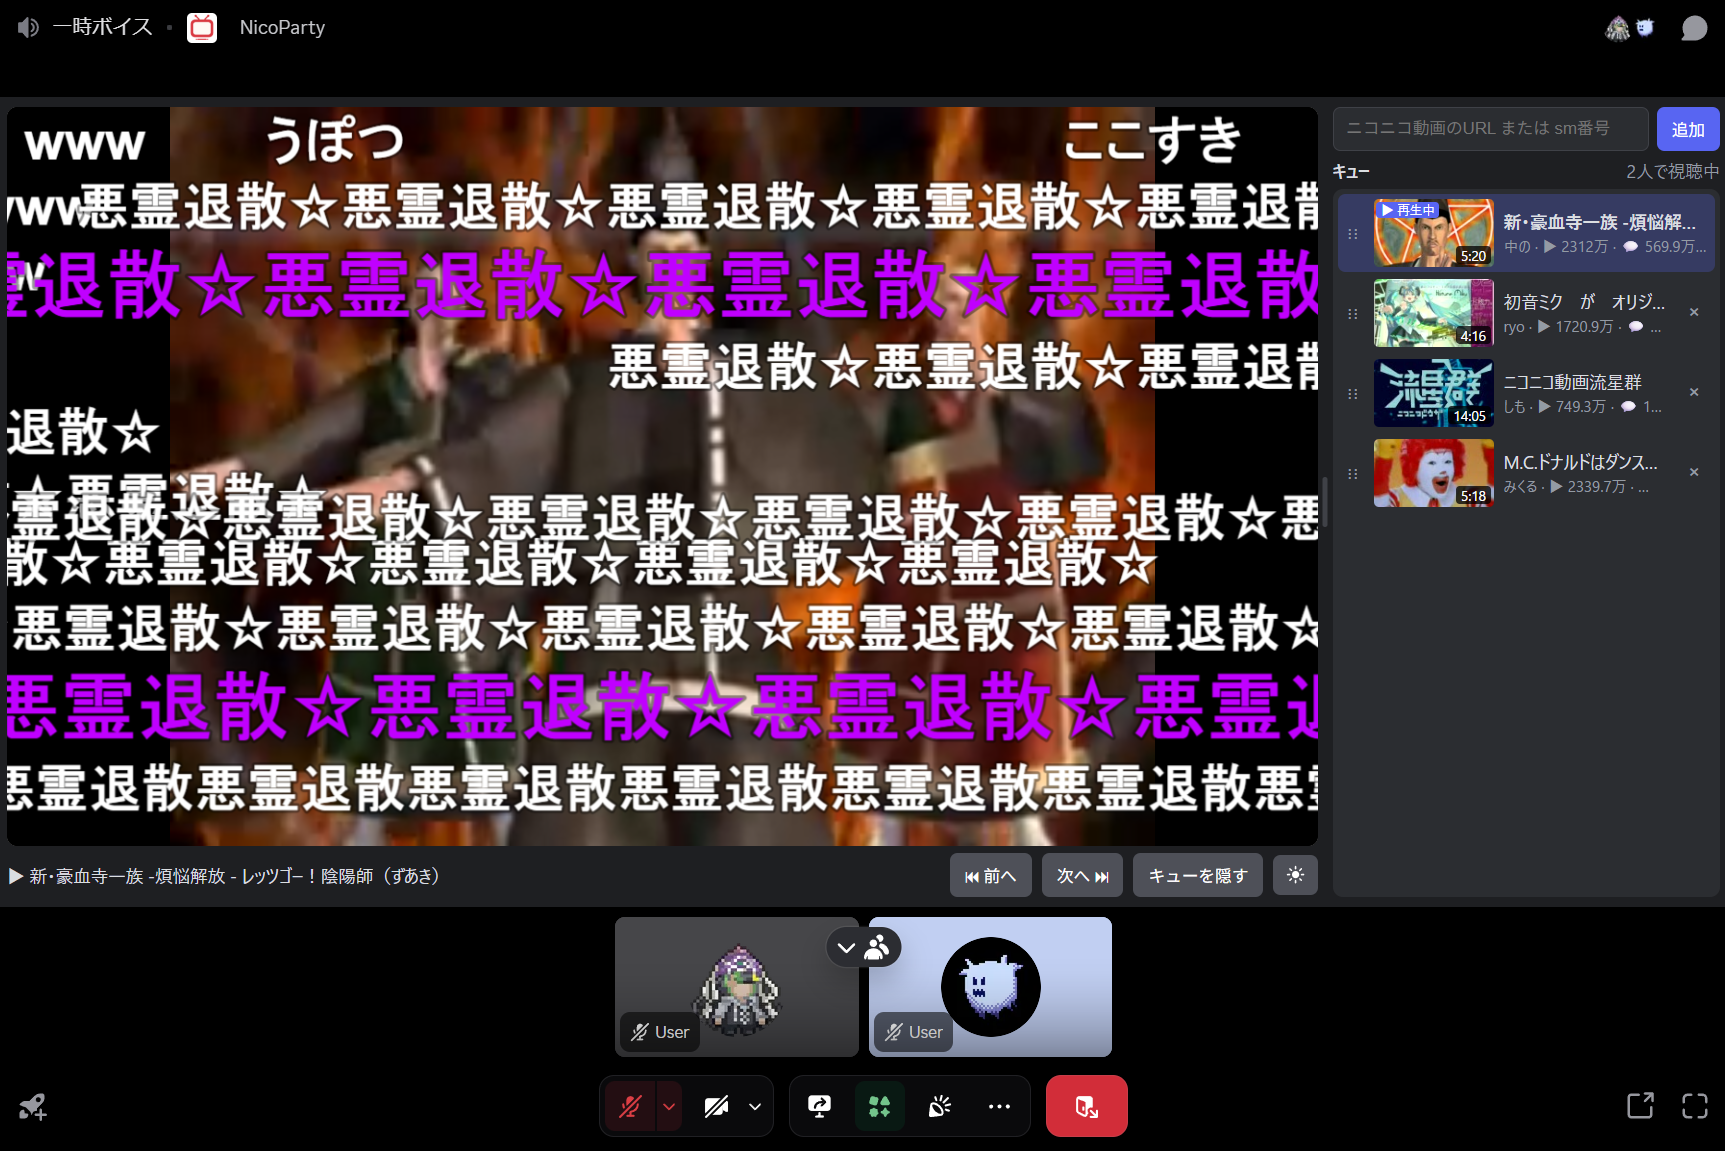
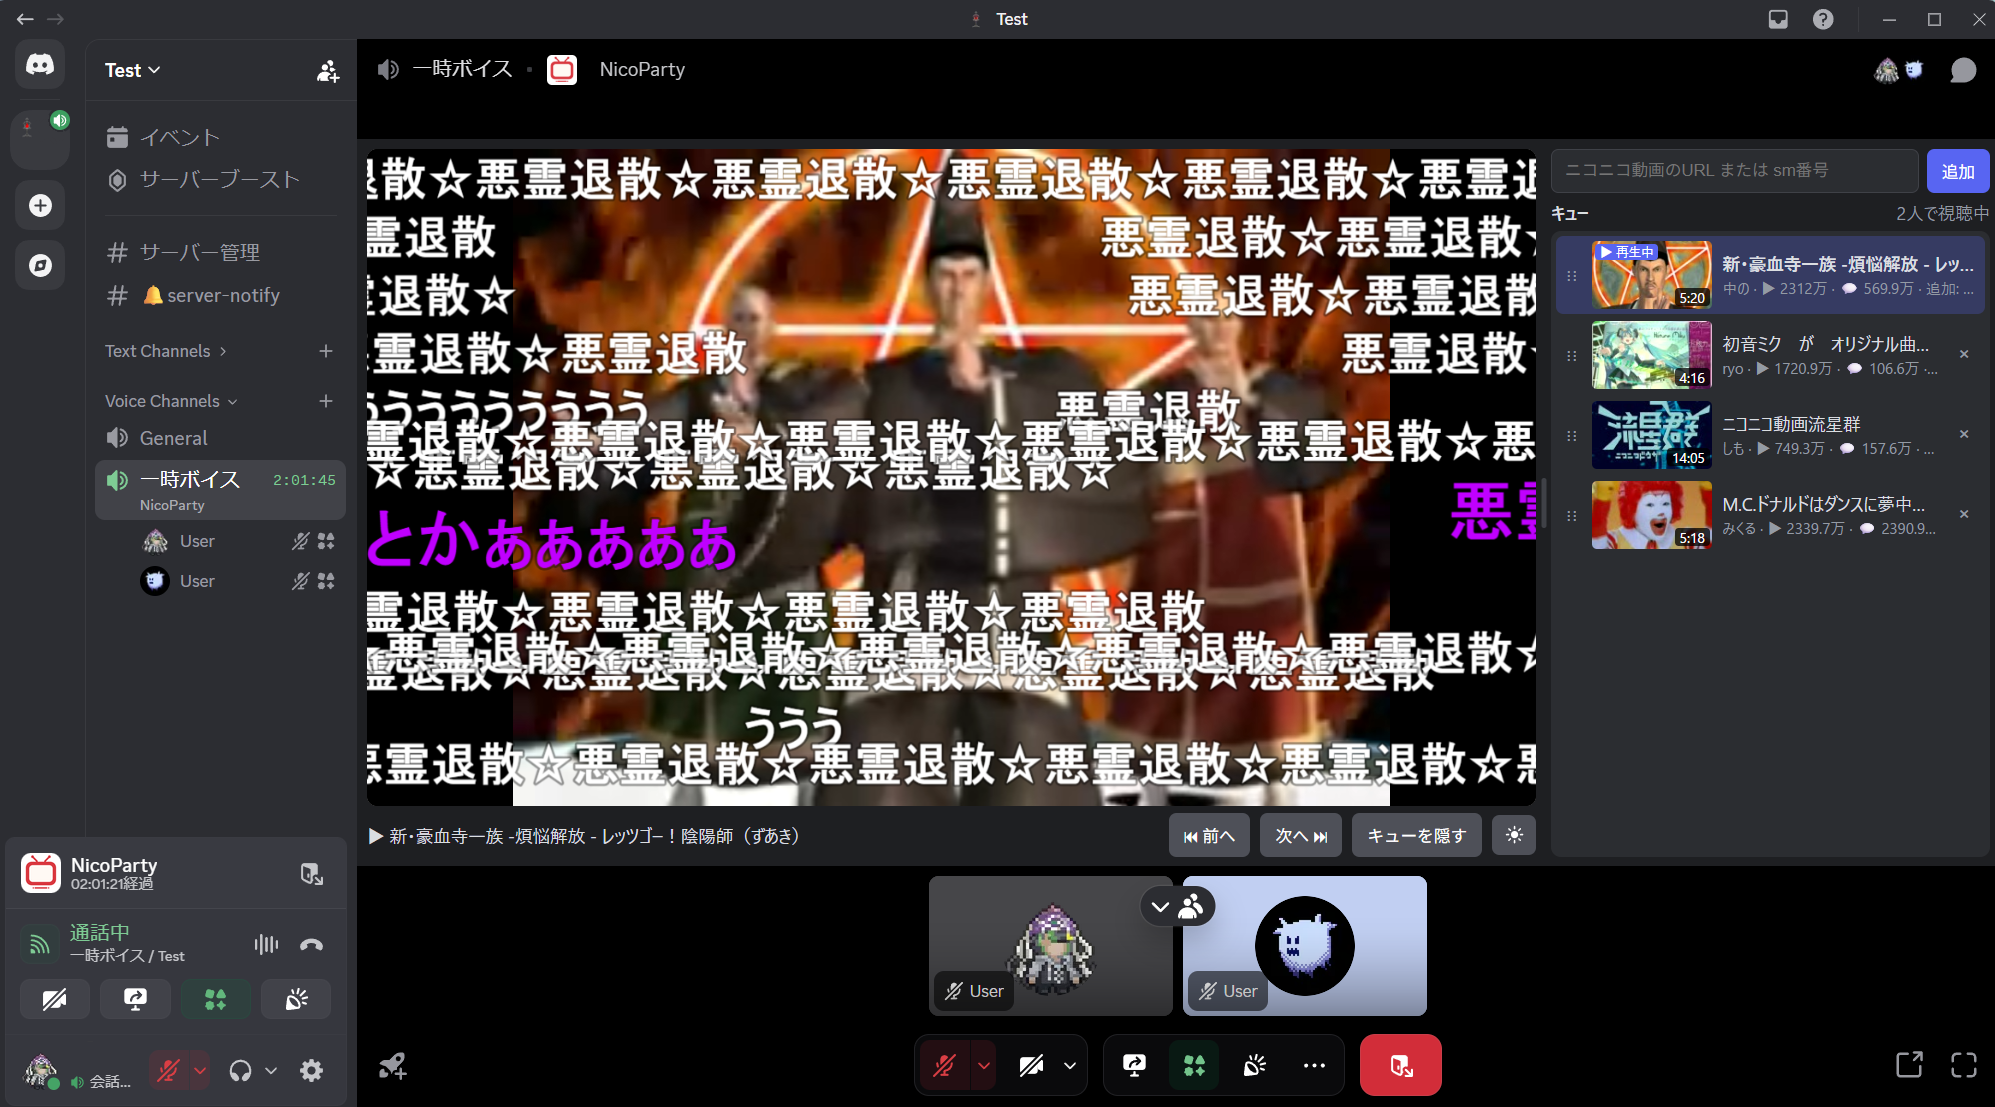
案内ページのカバーと実際の画面をスライドで切り替える表示にする
- 差し替えた demo.png をカバーと同じ 1376x768 に揃えて変換
- 5 秒ごとの自動切り替え（ホバー中は停止）、矢印・ドット・スワイプで操作可能

diff --git a/client/src/main.ts b/client/src/main.ts
@@ -22,18 +22,19 @@ function showLanding() {
         <a href="/"><img src="/img/icon-256.png" alt="" />NicoParty</a>
       </header>
       <main>
-        <div class="hero">
-          <img src="/img/cover.webp" width="1376" height="768" alt="NicoParty" />
-        </div>
+        <section class="slider" id="slider" aria-roledescription="carousel" aria-label="NicoParty の紹介画像">
+          <div class="slides" id="slides">
+            <img src="/img/cover.webp" width="1376" height="768" alt="NicoParty のロゴ" />
+            <img src="/img/demo.webp" width="1376" height="768" alt="Discord のボイスチャンネルで NicoParty を使っている画面" />
+          </div>
+          <button class="slide-nav prev" id="slide-prev" aria-label="前の画像">‹</button>
+          <button class="slide-nav next" id="slide-next" aria-label="次の画像">›</button>
+          <div class="slide-dots" id="slide-dots"></div>
+        </section>
         <h1 class="tagline">ニコニコ動画を、みんなで同時に。</h1>
         <p class="lead">
           NicoParty は、Discord のボイスチャンネルでニコニコ動画を一緒に視聴できるアクティビティです。
         </p>
-
-        <figure class="demo">
-          <img src="/img/demo.webp" width="1376" height="918" alt="Discord のボイスチャンネルで NicoParty を使っている画面" loading="lazy" />
-          <figcaption>実際の画面。左で動画を再生し、右のキューに動画を追加していきます。</figcaption>
-        </figure>
 
         <section class="features">
           <div class="card">
@@ -73,4 +74,56 @@ function showLanding() {
       </footer>
     </div>
   `;
+  setupSlider();
+}
+
+/** 自動で切り替わる、またボタンやスワイプでも切り替えられる画像スライド */
+function setupSlider() {
+  const AUTO_MS = 5000;
+  /** これ以上指を動かしたらスワイプとみなす (px) */
+  const SWIPE_PX = 40;
+  const root = document.getElementById('slider')!;
+  const track = document.getElementById('slides')!;
+  const dotsEl = document.getElementById('slide-dots')!;
+  const count = track.children.length;
+  let index = 0;
+  let timer: number | undefined;
+
+  const dots = Array.from({ length: count }, (_, i) => {
+    const b = document.createElement('button');
+    b.setAttribute('aria-label', `${i + 1}枚目の画像`);
+    b.addEventListener('click', () => go(i));
+    dotsEl.append(b);
+    return b;
+  });
+
+  const go = (i: number) => {
+    index = (i + count) % count;
+    track.style.transform = `translateX(-${index * 100}%)`;
+    dots.forEach((d, j) => d.classList.toggle('active', j === index));
+    restart();
+  };
+  const restart = () => {
+    clearInterval(timer);
+    timer = window.setInterval(() => go(index + 1), AUTO_MS);
+  };
+
+  document.getElementById('slide-prev')!.addEventListener('click', () => go(index - 1));
+  document.getElementById('slide-next')!.addEventListener('click', () => go(index + 1));
+  // マウスを乗せている間は自動切り替えを止める
+  root.addEventListener('mouseenter', () => clearInterval(timer));
+  root.addEventListener('mouseleave', restart);
+
+  let startX: number | null = null;
+  root.addEventListener('pointerdown', (e) => {
+    if (e.pointerType !== 'mouse') startX = e.clientX;
+  });
+  root.addEventListener('pointerup', (e) => {
+    if (startX === null) return;
+    const dx = e.clientX - startX;
+    startX = null;
+    if (Math.abs(dx) > SWIPE_PX) go(index + (dx < 0 ? 1 : -1));
+  });
+
+  go(0);
 }

diff --git a/client/public/site.css b/client/public/site.css
@@ -82,13 +82,102 @@ body.site #app {
   border-radius: 9px;
 }
 
-/* 案内ページ */
-.hero img {
-  display: block;
-  width: 100%;
-  height: auto;
+/* 案内ページ: 画像スライド（2枚とも 1376x768 に揃えてある） */
+.slider {
+  position: relative;
+  overflow: hidden;
   border-radius: 16px;
   box-shadow: var(--shadow);
+  aspect-ratio: 1376 / 768;
+  background: var(--surface);
+  touch-action: pan-y;
+}
+
+.slides {
+  display: flex;
+  height: 100%;
+  transition: transform 0.5s ease;
+}
+
+.slides img {
+  flex: 0 0 100%;
+  width: 100%;
+  height: 100%;
+  object-fit: cover;
+  display: block;
+  user-select: none;
+  -webkit-user-drag: none;
+}
+
+.slide-nav {
+  position: absolute;
+  top: 50%;
+  transform: translateY(-50%);
+  width: 40px;
+  height: 40px;
+  border: 0;
+  border-radius: 50%;
+  background: rgba(0, 0, 0, 0.45);
+  color: #fff;
+  font-size: 26px;
+  line-height: 1;
+  cursor: pointer;
+  opacity: 0;
+  transition: opacity 0.2s;
+}
+
+.slide-nav.prev {
+  left: 12px;
+}
+
+.slide-nav.next {
+  right: 12px;
+}
+
+.slider:hover .slide-nav,
+.slide-nav:focus-visible {
+  opacity: 1;
+}
+
+/* タッチ端末ではホバーできないので常に出しておく */
+@media (hover: none) {
+  .slide-nav {
+    opacity: 0.8;
+    width: 34px;
+    height: 34px;
+    font-size: 22px;
+  }
+}
+
+.slide-dots {
+  position: absolute;
+  left: 0;
+  right: 0;
+  bottom: 12px;
+  display: flex;
+  justify-content: center;
+  gap: 8px;
+}
+
+.slide-dots button {
+  width: 9px;
+  height: 9px;
+  padding: 0;
+  border: 0;
+  border-radius: 50%;
+  background: rgba(255, 255, 255, 0.6);
+  box-shadow: 0 0 0 1px rgba(0, 0, 0, 0.25);
+  cursor: pointer;
+}
+
+.slide-dots button.active {
+  background: var(--brand);
+}
+
+@media (prefers-reduced-motion: reduce) {
+  .slides {
+    transition: none;
+  }
 }
 
 .tagline {
@@ -103,25 +192,6 @@ body.site #app {
   max-width: 600px;
   text-align: center;
   color: var(--muted);
-}
-
-.demo {
-  margin: 0 0 40px;
-}
-
-.demo img {
-  display: block;
-  width: 100%;
-  height: auto;
-  border-radius: 12px;
-  box-shadow: var(--shadow);
-}
-
-.demo figcaption {
-  margin-top: 10px;
-  text-align: center;
-  color: var(--muted);
-  font-size: 0.88em;
 }
 
 .features {
